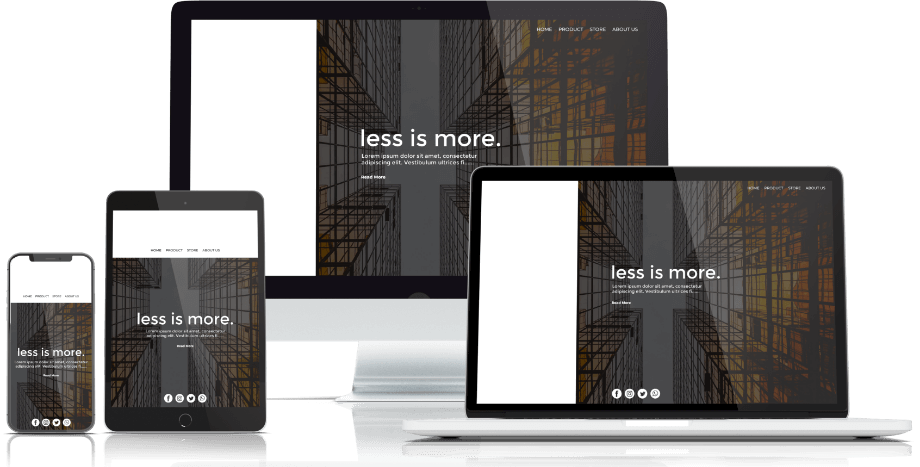
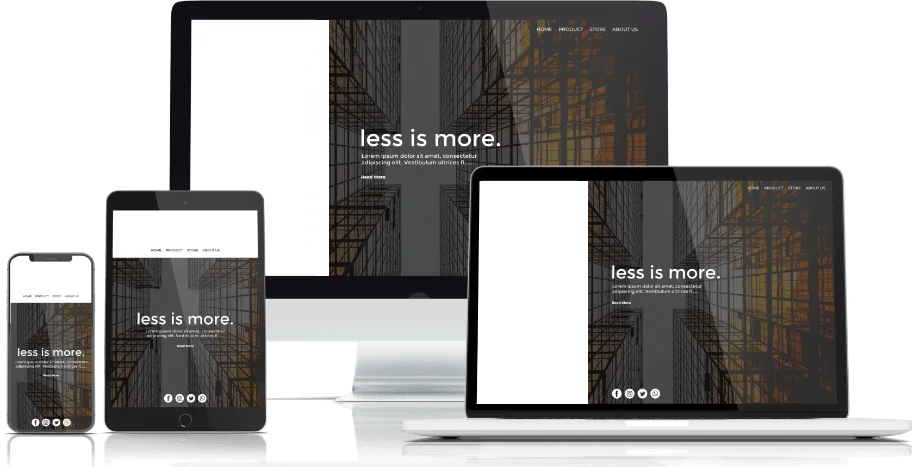
m

diff --git a/resources/views/site/preview.blade.php b/resources/views/site/preview.blade.php
@@ -71,13 +71,13 @@
 
         .first-section .mockup-wrapper .logo-wrapper-3 .logo-mockup {
             position: absolute;
-            width: 150px;
+            width: 145px;
             height: 100px;
         }
 
         .first-section .mockup-wrapper .logo-wrapper-4 .logo-mockup {
             position: absolute;
-            width: 115px;
+            width: 110px;
             height: 90px;
         }
 
@@ -1118,9 +1118,9 @@
 
                                         // Adjust the position based on the logo_position
                                         if ($selectedProduct->logo_position == 'left') {
-                                            $leftLogoPosition = '0'; // Align to the left edge of the canvas
+                                            $leftLogoPosition = '40'; // Align to the left edge of the canvas
                                         } elseif ($selectedProduct->logo_position == 'right') {
-                                            $leftLogoPosition = 'canvasWidth - boundingBox.width * scale'; // Align to the right edge of the canvas
+                                            $leftLogoPosition = '320'; //'canvasWidth - boundingBox.width  * scale'; // Align to the right edge of the canvas
                                         }
                                     @endphp
                                     svgGroup.set({

diff --git a/resources/views/site/maker.blade.php b/resources/views/site/maker.blade.php
@@ -417,7 +417,7 @@
             // Function to load and display car.svg from the root directory
             function loadCarSVG() {
                 $.ajax({
-                    url: 'svgs/' + image,
+                    url: 'category-image/' + image,
                     dataType: 'text',
                     success: function(svgString) {
                         // Clear the canvas and color palettes
